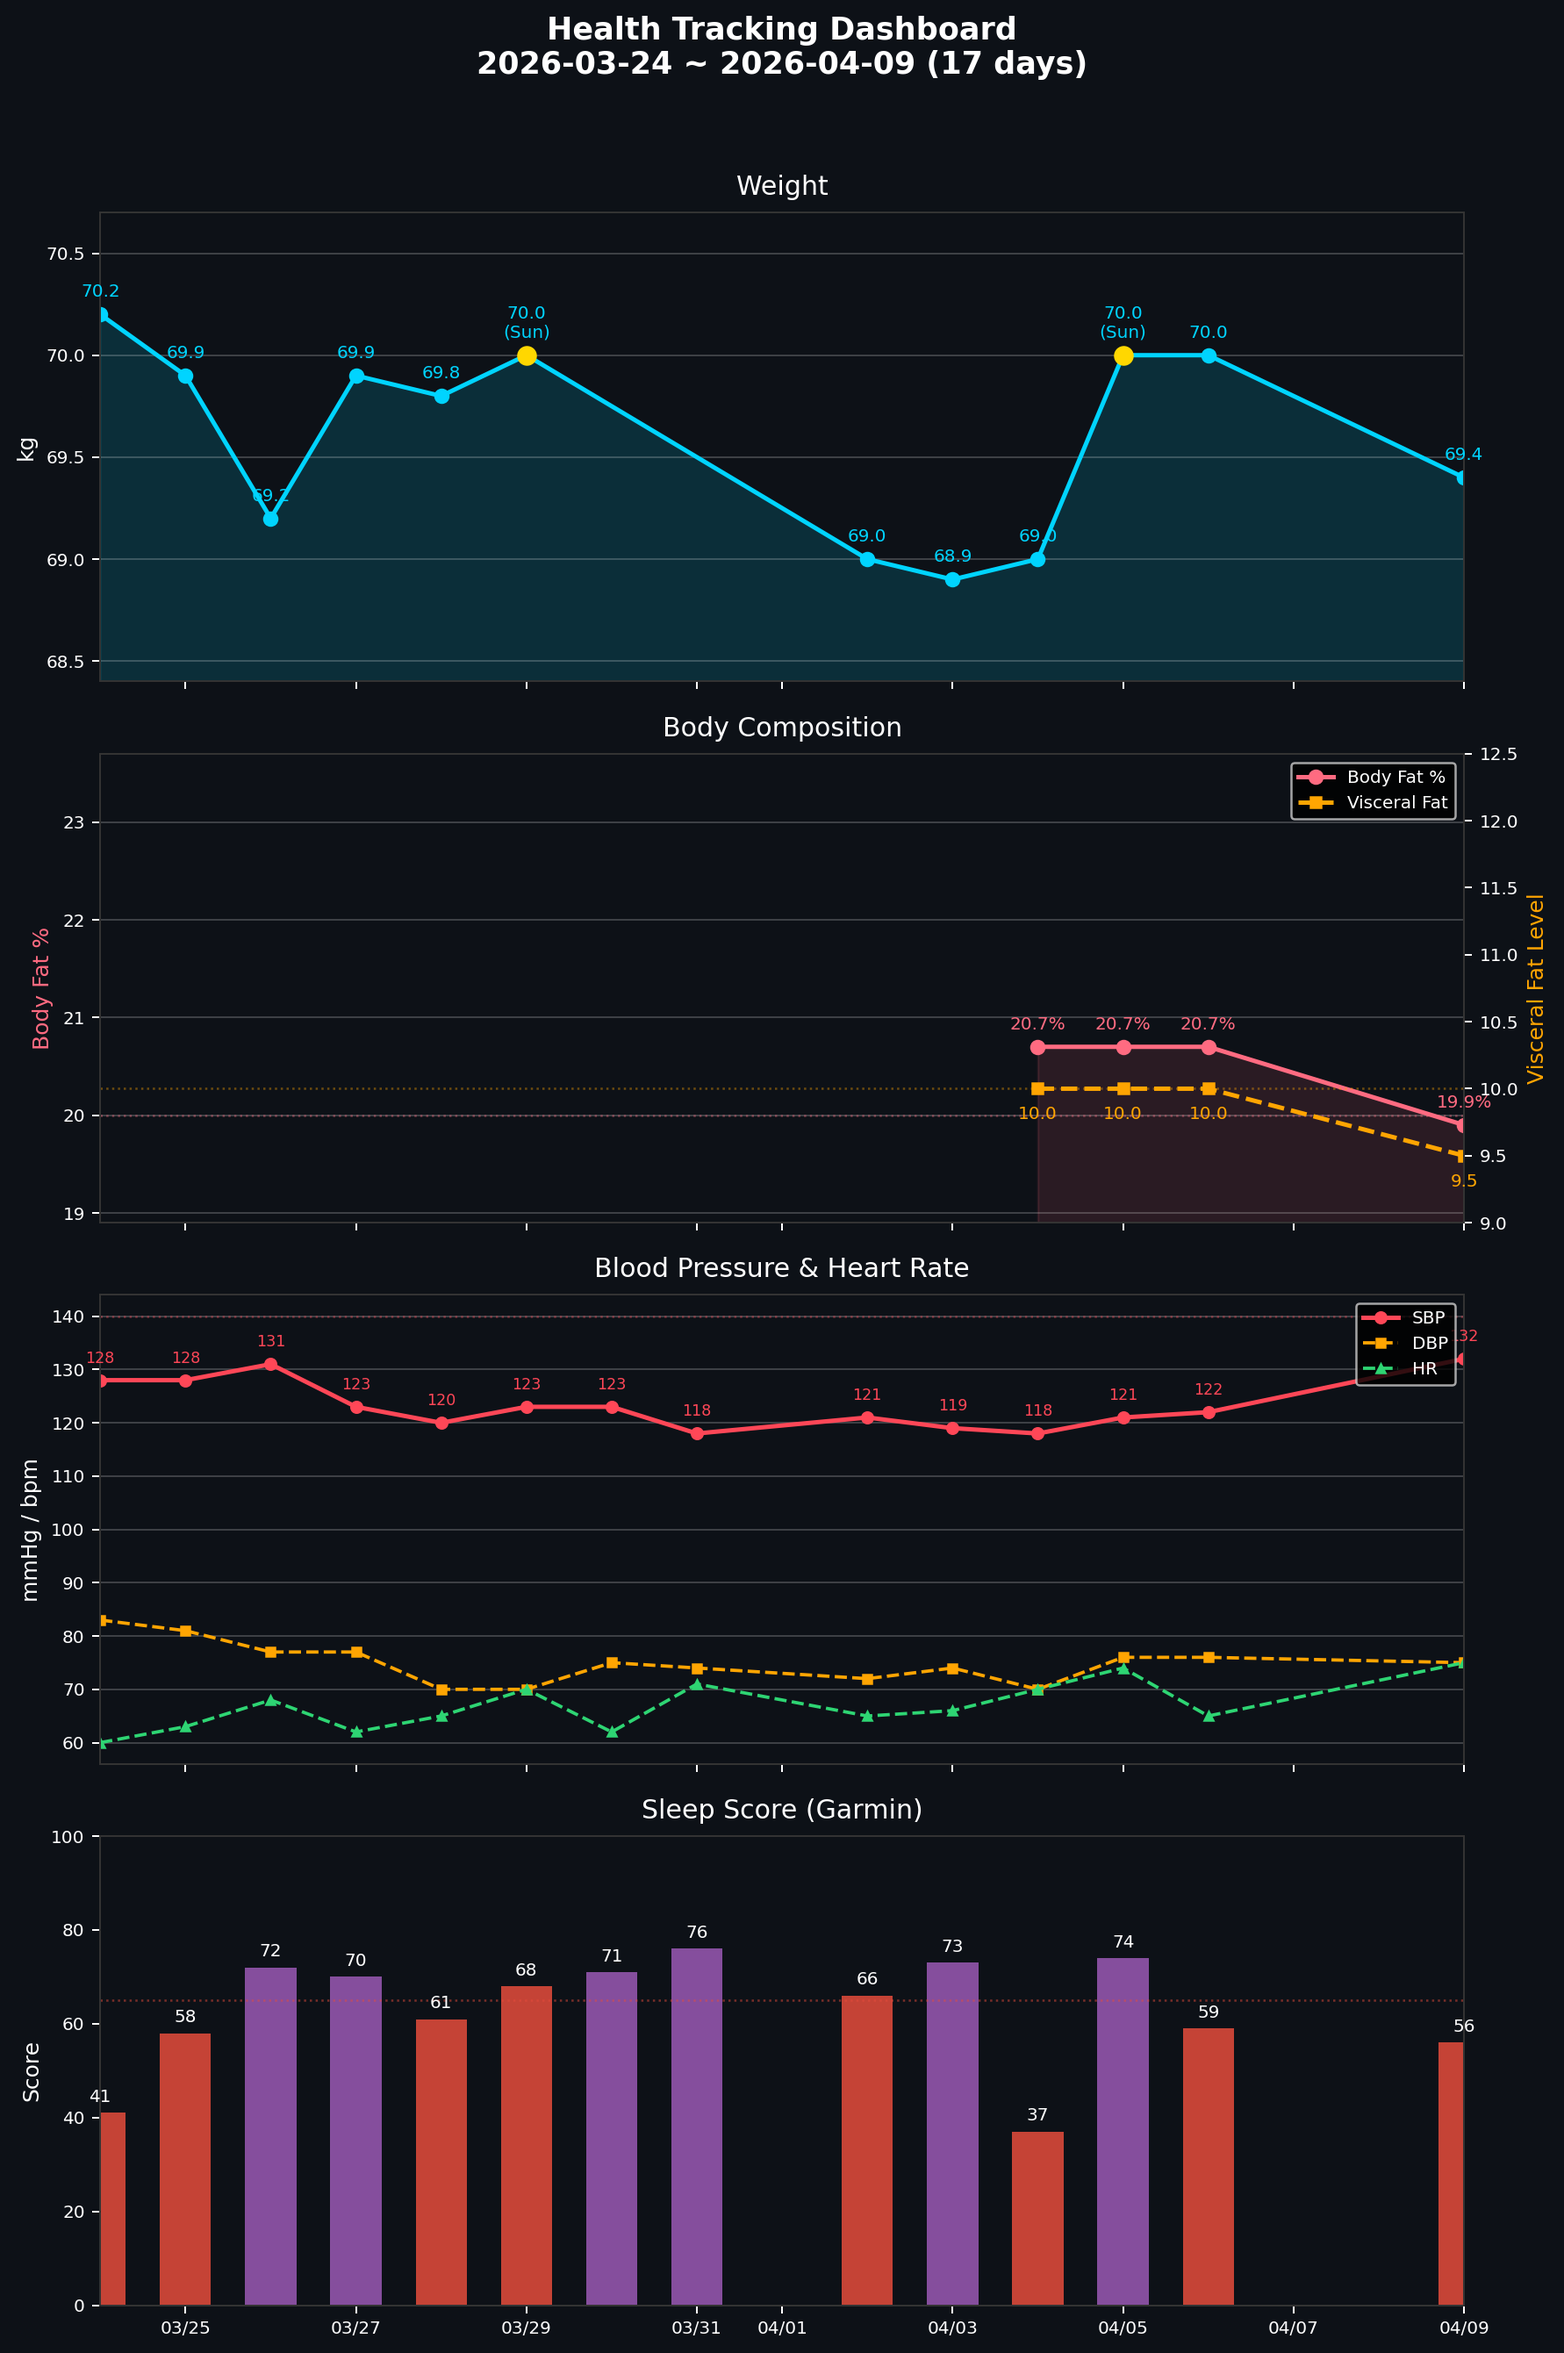
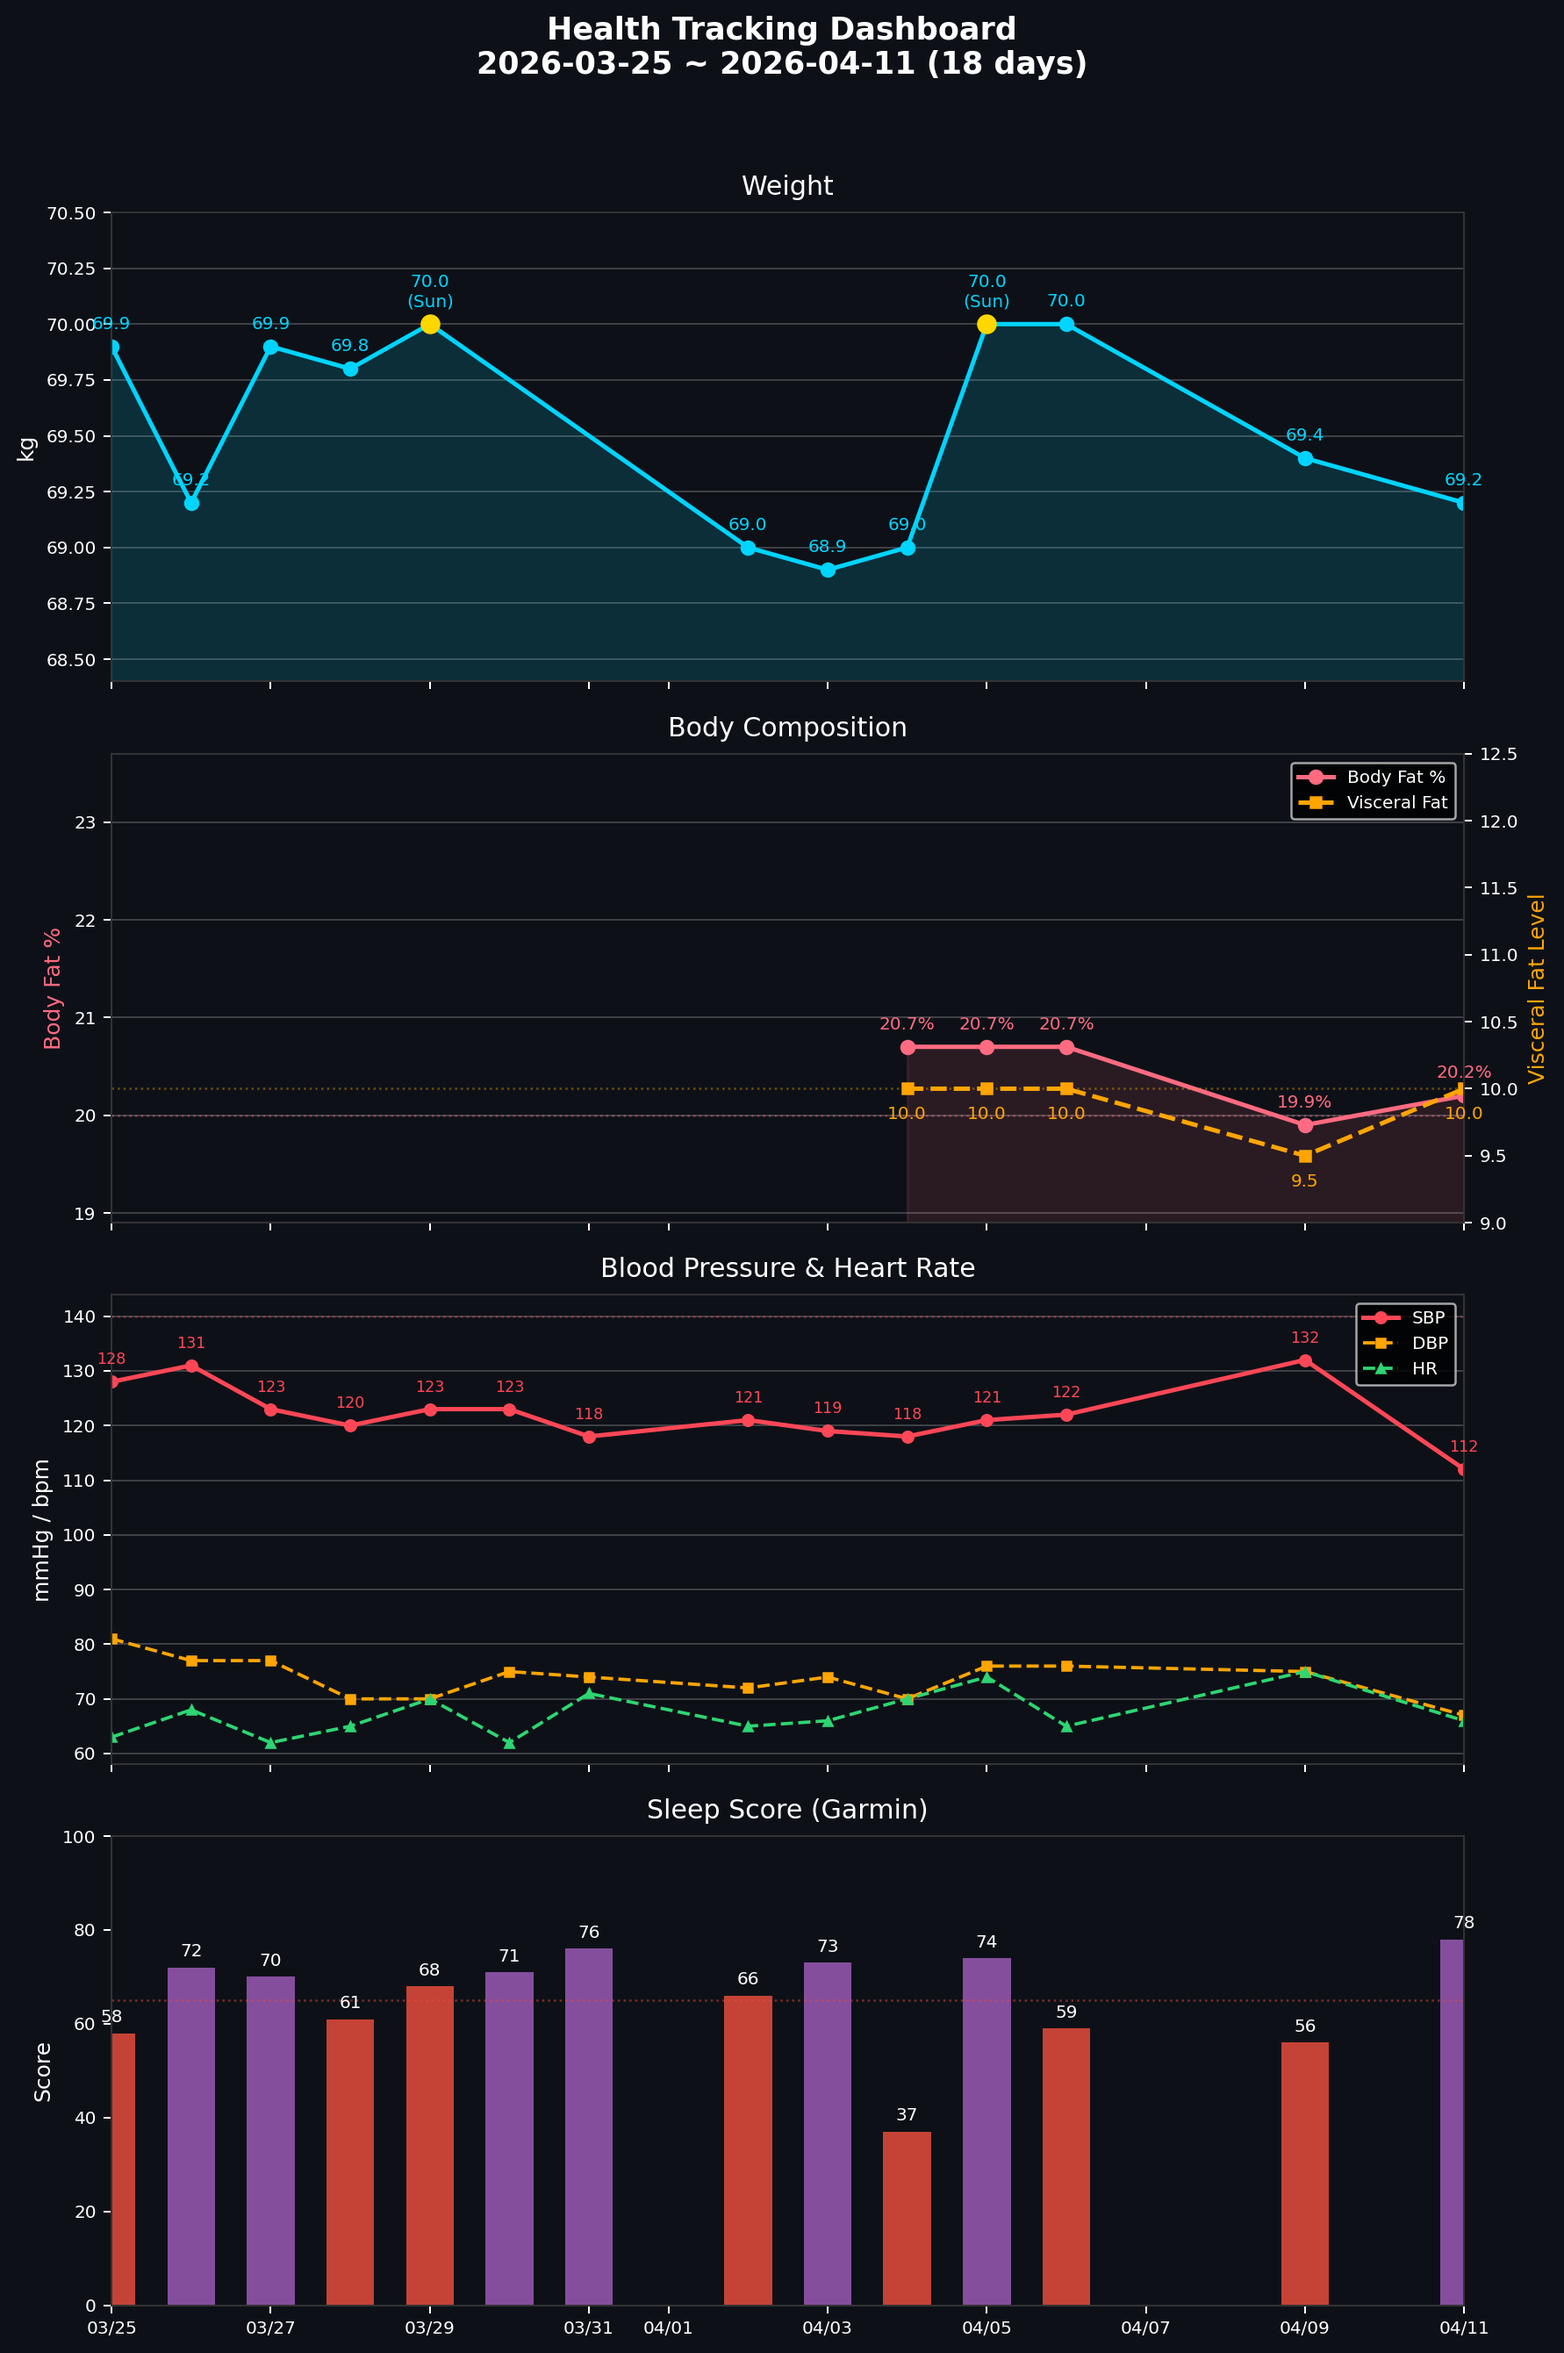
daily health log 2026-04-11

diff --git a/reviews/daily/2026-04-11.md b/reviews/daily/2026-04-11.md
@@ -1,0 +1,62 @@
+# 晨間健康紀錄 — 2026-04-11
+
+*3 分鐘。起床後立即完成。記錄，不分析。*
+
+---
+
+## 體重
+
+**今日：69.2 kg**
+**體脂率：20.2%**
+**內臟脂肪等級：10**
+
+*每週日早晨為正式紀錄（排尿後、進食前）。其他日可選填。*
+
+---
+
+## 血壓（晨間）
+
+*起床後 1 小時內，上完廁所、進食前。坐下安靜 5 分鐘，連量兩次取第二次。*
+
+| 次數 | 收縮壓 | 舒張壓 | 心率 |
+|------|--------|--------|------|
+| 第一次 | 114 | 71 | 63 |
+| 第二次 | 112 | 67 | 66 |
+
+---
+
+## 睡眠狀態
+
+**實際就寢：** 21:36
+**實際起床：** 04:26
+**中途醒來：** 無
+**Garmin Sleep Score：** 78 / 100
+**Garmin Body Battery 起床值：** 58
+**主觀恢復感：** 4 / 5（1=極度疲憊, 5=精力充沛）
+
+*Sleep Score < 65 或 Body Battery < 50 連續三天 → 重新檢視睡眠修復方案。*
+
+---
+
+## 身體信號
+
+*任何張力、疼痛、疲勞、異常 — 或「清」。記位置、性質、強度。*
+
+| 部位 | 性質 | 強度 (0-10) |
+|------|------|-------------|
+| 清 | — | — |
+
+---
+
+## 今日計畫速記
+
+- [ ] 飲水：_____ / 1.5L（17:00 前完成主要量）
+- [ ] 補充品：魚油 ×4
+- [ ] 運動：散步
+- [ ] 活動度/伸展：伸展
+
+---
+
+💡 PT 建議：Sleep Score 78 + 身體信號清 + 主觀恢復感 4/5，今日恢復充足，可按計畫執行散步，若狀態好可提升步速或延長時間（30 分鐘以上）。血壓 112/67 表現優秀，持續維持。飲水目標設為 1.5L，記得 17:00 前完成主要飲水量以支持尿酸代謝。
+
+*Filed: reviews/daily/2026-04-11.md*

diff --git a/reviews/weekly/2026-W15.md b/reviews/weekly/2026-W15.md
@@ -29,7 +29,7 @@
 
 | 一 | 二 | 三 | 四 | 五 | 六 | 日 |
 |----|----|----|----|----|----|-----|
-| 70.0 | | | 69.4 | | | |
+| 70.0 | | | 69.4 | | 69.2 | |
 
 **週日正式值：** _____ kg
 **上週日正式值：** 70.0 kg
@@ -46,7 +46,7 @@
 | [WED] (三) | | | |
 | 04/09 (四) | 132 | 75 | 75 |
 | [FRI] (五) | | | |
-| [SAT] (六) | | | |
+| 04/11 (六) | 112 | 67 | 66 |
 | [SUN] (日) | | | |
 
 **本週平均：** _____ / _____ mmHg，心率 _____ bpm
@@ -64,7 +64,7 @@
 | [WED] (三) | | | | | | |
 | 04/09 (四) | 22:32 | 06:40 | 2次(工作思緒) | 56 | 31 | 3 |
 | [FRI] (五) | | | | | | |
-| [SAT] (六) | | | | | | |
+| 04/11 (六) | 21:36 | 04:26 | 無 | 78 | 58 | 4 |
 | [SUN] (日) | | | | | | |
 
 **Sleep Score 週均：** _____ / 100
@@ -81,9 +81,9 @@
 
 | 信號（部位+性質） | 出現天數 | 平均強度 | 趨勢（↑↓→） | 備註 |
 |-------------------|----------|----------|-------------|------|
-| | | | | |
+| 清（04/11） | 1 | — | — | |
 
-**反覆出現（≥ 3 天）：** 無 / _____
+**反覆出現（≥ 3 天）：** 無
 
 *同一信號連續 3 天以上 → 考慮就醫或調整訓練。*
 
@@ -104,7 +104,7 @@
 
 | 日期 | 運動內容（含組數/時間） |
 |------|------------------------|
-| | |
+| 04/11 (六) | 散步 |
 
 ---
 
